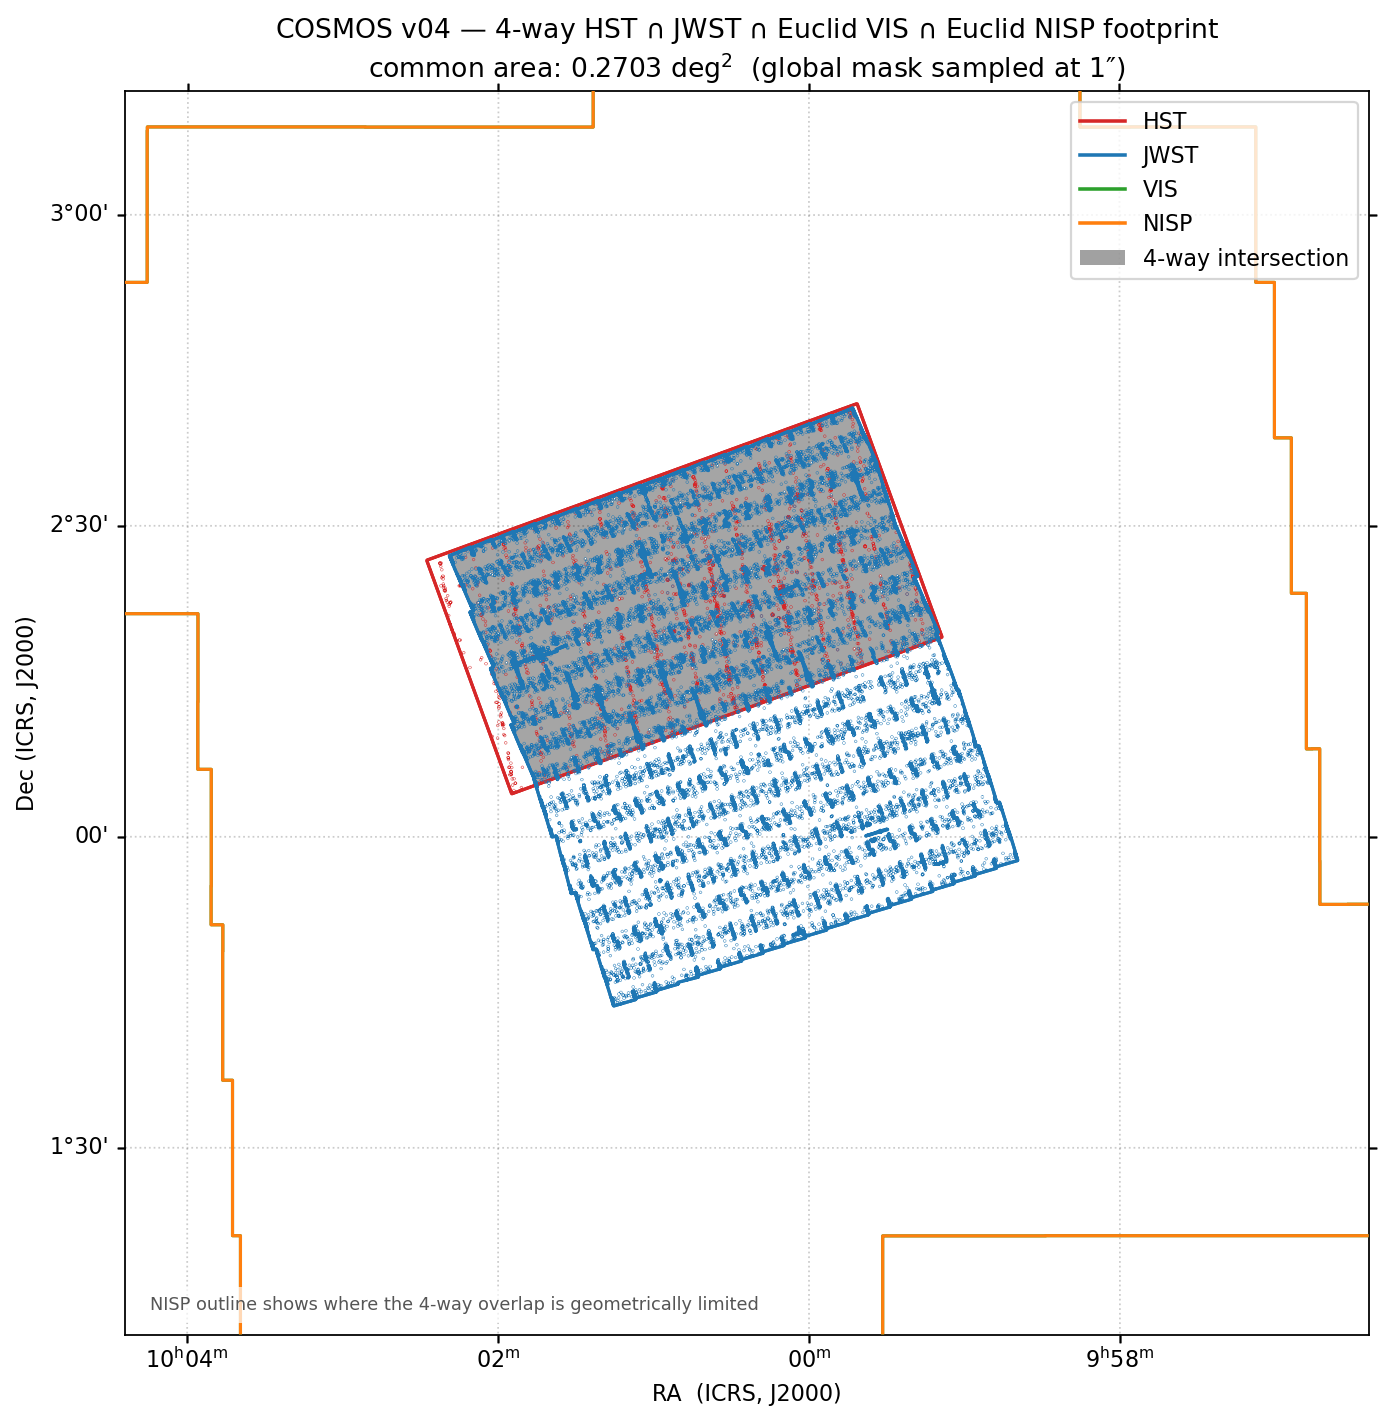
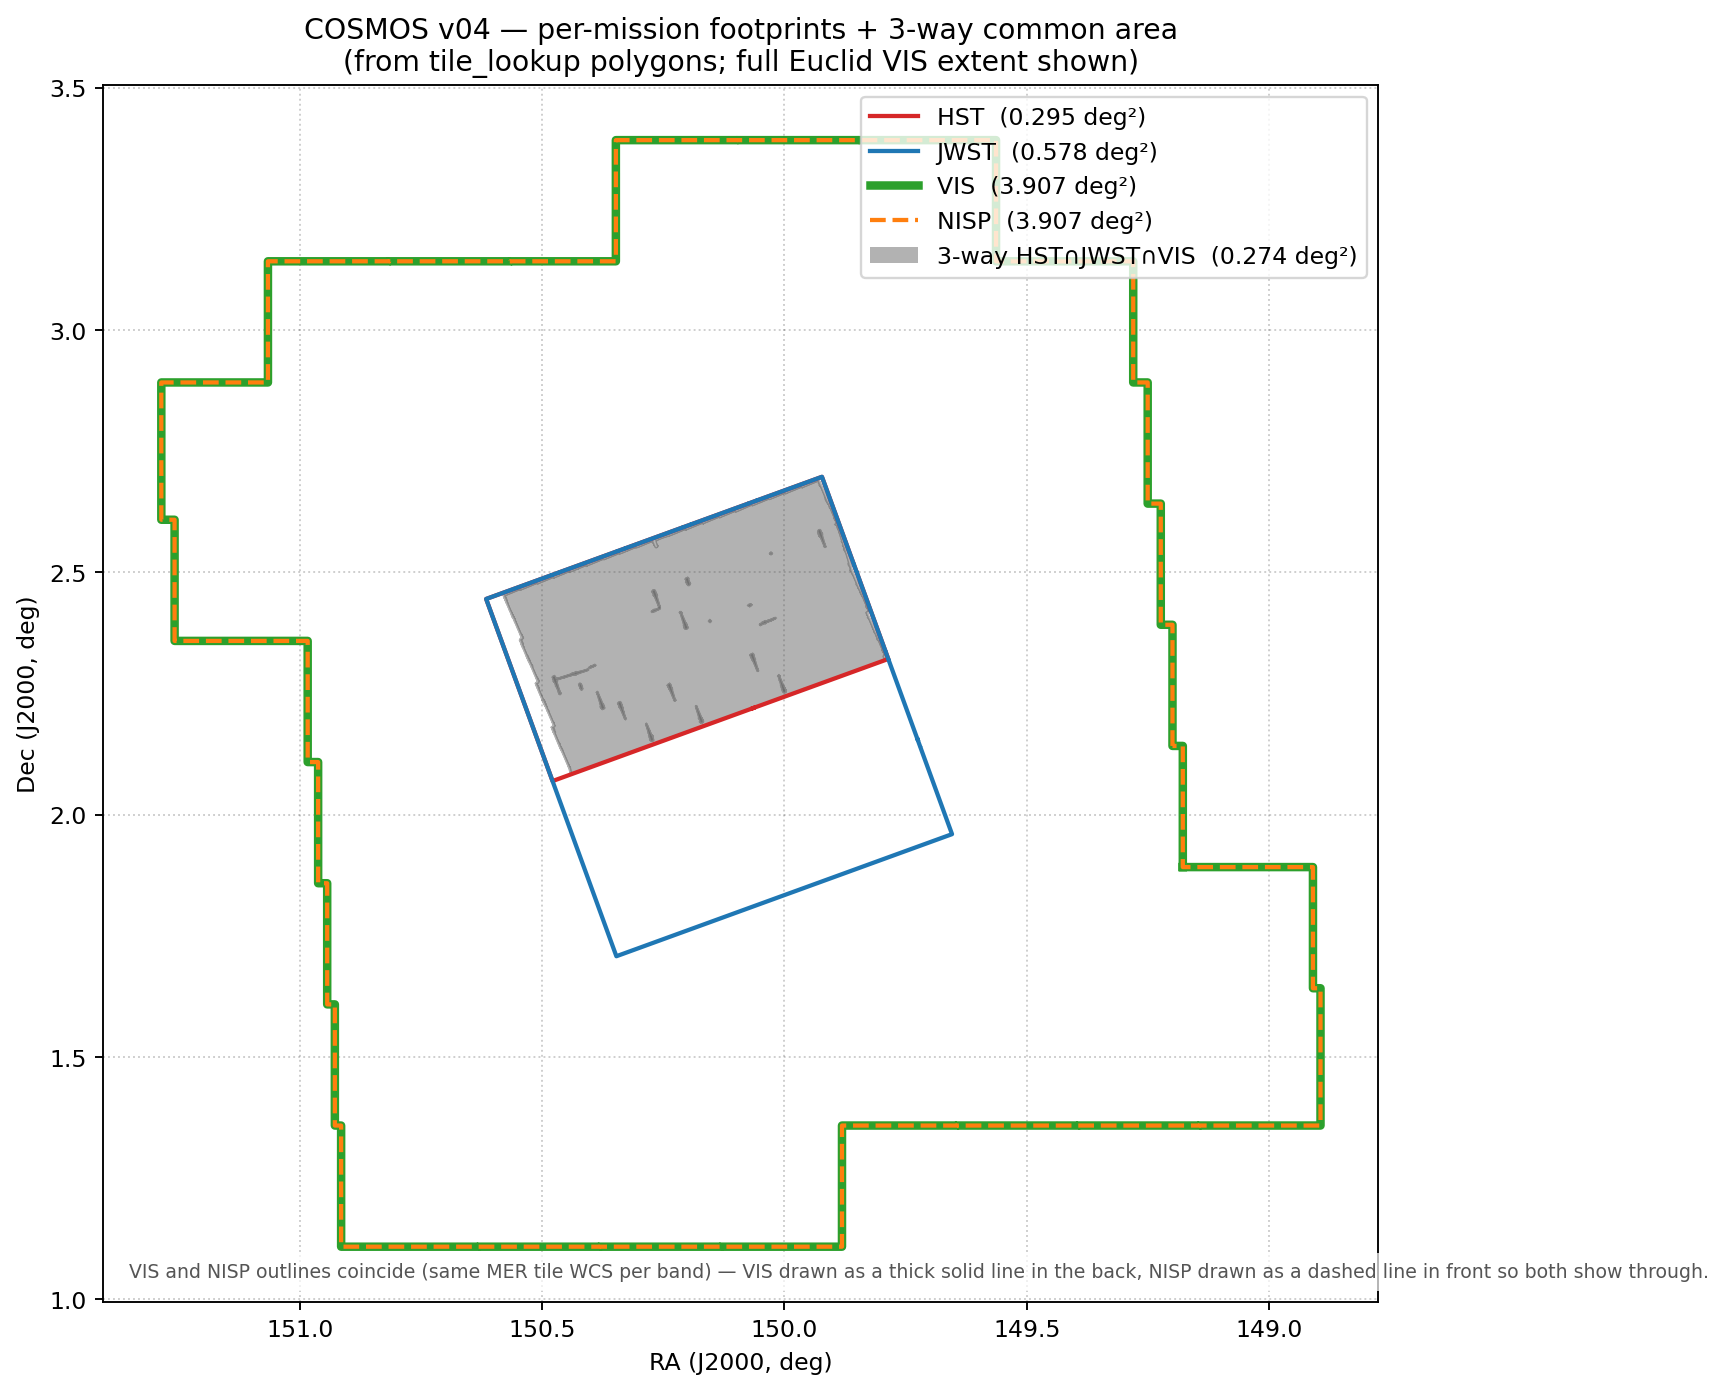
v04 Step 1 plot: rewrite 11_ to use tile_lookup polygons (no FITS reopen)
Replace the reprojection-based footprint plot (which redid 330
per-tile mask reprojections every run, ~50 min wall) with a Shapely
polygon-based approach that loads the 4-corner sky polygons from
tile_lookup.parquet and builds per-mission union/intersection
polygons in seconds (no FITS reads at all).

  per_mission_union(df, mission, filter)              -> Polygon
  mission_intersection_across_filters(df, mission, bands) -> Polygon

The 3-way common area itself is loaded from the persisted
common_area_3way.wkt; everything is sky-coords from start to end.

Drawing tweaks:
  - VIS drawn first (solid green, lw 3.6) so it sits in the back
  - NISP drawn last (dashed orange, lw 1.8) so VIS shows through
    the gaps in the dashes
  - Plot extent expands to the bbox of all four mission polygons
    so Euclid's full 3.9 deg^2 footprint is visible (the previous
    plot was clipped to the 2 deg x 2 deg global mask grid).

PNG: htmls/v04/step1/common_area_footprint.png (178 KB).
Script wall: < 1 sec.

diff --git a/programs_star/v04/11_step1_plot_footprint.py b/programs_star/v04/11_step1_plot_footprint.py
@@ -1,130 +1,185 @@
 #!/usr/bin/env python
 """
-11_step1_plot_footprint.py — RA/Dec map of the 4-way footprint.
+11_step1_plot_footprint.py — RA/Dec map of the v04 footprint.
 
-Reads the per-mission coverage masks reprojected onto the global 1"
-COSMOS grid (built by Step 1) and shows the 4-way HST ∩ JWST ∩ VIS ∩
-NISP common-area footprint, overlaid with per-mission outlines so it
-is visible which mission limits each edge of the common region.
+Uses the tile lookup table (RA/Dec polygon corners stored per tile) and
+the persisted 3-way common-area WKT — NO FITS REOPEN, NO REPROJECTION.
+
+Per-mission footprint = union of all per-tile 4-corner sky polygons:
+    HST         = union over the 10 HST F814W tiles
+    JWST        = INTERSECTION across F115/F150/F277/F444W (each filter
+                  is the union of its 20 tile polygons first)
+    Euclid VIS  = union over the 60 VIS MER tiles
+    Euclid NISP = INTERSECTION across NIR-Y/J/H (each band is the
+                  union of its 60 tile polygons first)
+
+The 3-way common area itself is loaded from
+    csvfiles_star/v04/common_area_3way.wkt
+and shown as the filled grey region.
 
 Output: htmls/v04/step1/common_area_footprint.png
+
+Runs in seconds (vs the original ~30-50 min reprojection version).
 """
 from __future__ import annotations
 from pathlib import Path
 
 import numpy as np
+import pandas as pd
 import matplotlib.pyplot as plt
-from astropy.io import fits
-from astropy.wcs import WCS
-from reproject import reproject_interp
+from shapely import wkt as shp_wkt
+from shapely.geometry import Polygon, MultiPolygon
+from shapely.ops import unary_union
 
-V04   = Path('/Users/suzuki/github/projects_cosmos/csvfiles_star/v04')
-COV   = V04 / 'coverage'
-GLOBAL_MASK = V04 / 'common_area_4way_1arcsec.fits.gz'
+V04           = Path('/Users/suzuki/github/projects_cosmos/csvfiles_star/v04')
+LOOKUP        = V04 / 'tile_lookup.parquet'
+THREE_WAY_WKT = V04 / 'common_area_3way.wkt'
+
 OUT_DIR = Path('/Users/suzuki/github/projects_cosmos/htmls/v04/step1')
 OUT_DIR.mkdir(parents=True, exist_ok=True)
 OUT_PNG = OUT_DIR / 'common_area_footprint.png'
 
+COLOURS = {'HST':  '#d62728',   # red
+           'JWST': '#1f77b4',   # blue
+           'VIS':  '#2ca02c',   # green
+           'NISP': '#ff7f0e'}   # orange
 
-def load_global_mask():
-    """Load the 4-way intersection mask + its WCS."""
-    with fits.open(GLOBAL_MASK) as h:
-        mask = np.asarray(h[0].data, dtype=bool)
-        wcs  = WCS(h[0].header)
-    return mask, wcs
+# Drawing: VIS in the back as a thick solid line; NISP in front as a
+# dashed line on top, so VIS green shows through the gaps in the dashes
+# and both Euclid outlines are visible simultaneously.
+DRAW_ORDER  = ['HST', 'JWST', 'VIS', 'NISP']
+WIDTHS      = {'HST': 1.8, 'JWST': 1.8, 'VIS': 3.6, 'NISP': 1.8}
+ALPHAS      = {'HST': 1.0, 'JWST': 1.0, 'VIS': 1.0, 'NISP': 1.0}
+LINESTYLES  = {'HST': '-',  'JWST': '-',  'VIS': '-',  'NISP': '--'}
 
 
-def per_mission_union(prefix: str, wcs_target, shape_target) -> np.ndarray:
-    """OR together every tile mask whose filename starts with `prefix`
-    after reprojecting onto the target WCS."""
-    out = np.zeros(shape_target, dtype=bool)
-    for f in sorted(COV.glob(f'{prefix}*.fits.gz')):
-        with fits.open(f, memmap=True) as h:
-            m = np.asarray(h[0].data, dtype=np.float32)
-            w = WCS(h[0].header)
-        rp, _ = reproject_interp((m, w), wcs_target,
-                                 shape_out=shape_target,
-                                 order='nearest-neighbor')
-        out |= (np.nan_to_num(rp, nan=0) > 0.5)
+def _row_polygon(row) -> Polygon:
+    """Build a Shapely polygon from a tile_lookup row's 4 corners (RA, Dec)."""
+    ra  = np.asarray(row['corners_ra'])
+    dec = np.asarray(row['corners_dec'])
+    coords = list(zip(ra, dec))
+    coords.append(coords[0])  # close the ring
+    poly = Polygon(coords)
+    if not poly.is_valid:
+        poly = poly.buffer(0)
+    return poly
+
+
+def mission_union(df: pd.DataFrame, mission: str, filt: str):
+    """Union of all tile polygons for one (mission, filter)."""
+    sub = df[(df['mission'] == mission) & (df['filter'] == filt)]
+    polys = [_row_polygon(r) for _, r in sub.iterrows()]
+    return unary_union(polys) if polys else Polygon()
+
+
+def mission_intersection_across_filters(df: pd.DataFrame,
+                                         mission: str,
+                                         filters: list[str]):
+    """For each filter, take the union over its tiles; then INTERSECT
+    those per-filter unions to get the cross-band common footprint."""
+    per_filter = [mission_union(df, mission, f) for f in filters]
+    out = per_filter[0]
+    for p in per_filter[1:]:
+        out = out.intersection(p)
     return out
 
 
-def jwst_intersection(wcs_target, shape_target):
-    """All 4 JWST bands AND'd together."""
-    out = None
-    for flt in ('F115W', 'F150W', 'F277W', 'F444W'):
-        m = per_mission_union(f'JWST_{flt}_', wcs_target, shape_target)
-        out = m if out is None else (out & m)
-    return out
-
-
-def nisp_intersection(wcs_target, shape_target):
-    """All 3 NISP bands AND'd together."""
-    out = None
-    for flt in ('NIR-Y', 'NIR-J', 'NIR-H'):
-        m = per_mission_union(f'Euclid_{flt}_', wcs_target, shape_target)
-        out = m if out is None else (out & m)
-    return out
+def draw_geom(ax, geom, **kw):
+    """matplotlib helper: draw a (Multi)Polygon outline."""
+    if geom.is_empty:
+        return
+    if geom.geom_type == 'Polygon':
+        polys = [geom]
+    else:
+        polys = list(geom.geoms)
+    for poly in polys:
+        xs, ys = zip(*poly.exterior.coords)
+        ax.plot(xs, ys, **kw)
+        for hole in poly.interiors:
+            hxs, hys = zip(*hole.coords)
+            ax.plot(hxs, hys, **kw)
 
 
 def main():
-    print('Loading global 4-way mask ...')
-    four_way, wcs = load_global_mask()
-    shape = four_way.shape
-    print(f'  grid {shape[1]}x{shape[0]}  4-way pixels: {four_way.sum():,}')
+    print('Reading tile_lookup.parquet ...')
+    df = pd.read_parquet(LOOKUP)
+    print(f'  {len(df)} tile rows')
 
-    print('Building per-mission union/intersection masks for outline overlay ...')
-    hst  = per_mission_union('HST_F814W_',   wcs, shape)
-    jwst = jwst_intersection(wcs, shape)
-    vis  = per_mission_union('Euclid_VIS_',  wcs, shape)
-    nisp = nisp_intersection(wcs, shape)
-    print(f'  HST   {hst.sum()/1e6:6.2f} Mpx')
-    print(f'  JWST  {jwst.sum()/1e6:6.2f} Mpx')
-    print(f'  VIS   {vis.sum()/1e6:6.2f} Mpx')
-    print(f'  NISP  {nisp.sum()/1e6:6.2f} Mpx')
-    print(f'  4-way {four_way.sum()/1e6:6.2f} Mpx -> {four_way.sum()/3600**2:.4f} deg^2')
+    print('Building per-mission footprints via Shapely union/intersection ...')
+    footprints = {
+        'HST':  mission_union(df, 'HST', 'F814W'),
+        'JWST': mission_intersection_across_filters(
+                    df, 'JWST', ['F115W', 'F150W', 'F277W', 'F444W']),
+        'VIS':  mission_union(df, 'Euclid', 'VIS'),
+        'NISP': mission_intersection_across_filters(
+                    df, 'Euclid', ['NIR-Y', 'NIR-J', 'NIR-H']),
+    }
+    for name, geom in footprints.items():
+        print(f'  {name:5s} polygon area = {geom.area:.4f} deg², bounds={geom.bounds}')
+
+    print(f'Loading 3-way common-area polygon from {THREE_WAY_WKT.name} ...')
+    three_way = shp_wkt.loads(THREE_WAY_WKT.read_text())
+    print(f'  3-way area = {three_way.area:.4f} deg²')
 
     # ── Plot ───────────────────────────────────────────────────────────
-    fig = plt.figure(figsize=(9, 9))
-    ax  = fig.add_subplot(111, projection=wcs)
+    # Axis extent: union bounding box of all footprints, with a 5% margin.
+    all_geoms = list(footprints.values()) + [three_way]
+    union_box = unary_union(all_geoms).bounds   # (minx, miny, maxx, maxy)
+    margin_x = 0.05 * (union_box[2] - union_box[0])
+    margin_y = 0.05 * (union_box[3] - union_box[1])
 
-    # Filled fan-of-grey: 4-way region in solid colour.
-    ax.imshow(four_way, origin='lower', cmap='Greys', alpha=0.55,
-              interpolation='nearest', vmin=0, vmax=1.4)
+    fig, ax = plt.subplots(figsize=(10, 9))
 
-    # Per-mission outlines (drawn in pixel coords; WCSAxes handles RA/Dec ticks)
-    colours = {'HST':  '#d62728',  # red
-               'JWST': '#1f77b4',  # blue
-               'VIS':  '#2ca02c',  # green
-               'NISP': '#ff7f0e'}  # orange
-    for name, m in (('HST', hst), ('JWST', jwst), ('VIS', vis), ('NISP', nisp)):
-        ax.contour(m, levels=[0.5], colors=colours[name],
-                   linewidths=1.4, linestyles='-')
+    # 3-way: filled grey patches
+    if three_way.geom_type == 'Polygon':
+        threes = [three_way]
+    else:
+        threes = list(three_way.geoms)
+    for p in threes:
+        xs, ys = zip(*p.exterior.coords)
+        ax.fill(xs, ys, color='#555', alpha=0.45, zorder=2)
 
-    # Legend (proxy artists since contour doesn't take label well)
-    handles = [plt.Line2D([], [], color=c, lw=1.6, label=k)
-               for k, c in colours.items()]
-    handles.append(plt.Rectangle((0, 0), 1, 1, fc='#555', ec='none', alpha=0.55,
-                                 label='4-way intersection'))
-    ax.legend(handles=handles, loc='upper right', frameon=True, fontsize=10)
+    # Per-mission outlines in the documented order (NISP drawn last on top)
+    z = {'HST': 3, 'JWST': 3, 'VIS': 4, 'NISP': 5}
+    for name in DRAW_ORDER:
+        draw_geom(ax, footprints[name],
+                  color=COLOURS[name], lw=WIDTHS[name], alpha=ALPHAS[name],
+                  linestyle=LINESTYLES[name], zorder=z[name])
 
-    ax.set_xlabel('RA  (ICRS, J2000)')
-    ax.set_ylabel('Dec (ICRS, J2000)')
-    area_deg2 = four_way.sum() / 3600**2
-    ax.set_title(f'COSMOS v04 — 4-way HST $\\cap$ JWST $\\cap$ Euclid VIS $\\cap$ '
-                 f'Euclid NISP footprint\n'
-                 f'common area: {area_deg2:.4f} deg$^2$  '
-                 f'(global mask sampled at 1″)')
+    # Axes / labels
+    ax.set_xlim(union_box[2] + margin_x, union_box[0] - margin_x)   # RA decreases L->R
+    ax.set_ylim(union_box[1] - margin_y, union_box[3] + margin_y)
+    ax.set_aspect('equal', adjustable='box')
+    ax.set_xlabel('RA (J2000, deg)')
+    ax.set_ylabel('Dec (J2000, deg)')
     ax.grid(color='k', alpha=0.2, ls=':')
 
-    # Annotate where the bottleneck is (NISP-Y has tiny coverage)
+    # Legend (proxy artists so all four lines + the filled 3-way appear)
+    handles = []
+    for name in ('HST', 'JWST', 'VIS', 'NISP'):
+        handles.append(plt.Line2D([], [], color=COLOURS[name],
+                                    lw=WIDTHS[name], alpha=ALPHAS[name],
+                                    linestyle=LINESTYLES[name],
+                                    label=f'{name}  ({footprints[name].area:.3f} deg²)'))
+    handles.append(plt.Rectangle((0, 0), 1, 1, fc='#555', ec='none', alpha=0.45,
+                                  label=f'3-way HST∩JWST∩VIS  ({three_way.area:.3f} deg²)'))
+    ax.legend(handles=handles, loc='upper right', frameon=True, fontsize=10)
+
+    ax.set_title(
+        'COSMOS v04 — per-mission footprints + 3-way common area\n'
+        f'(from tile_lookup polygons; full Euclid VIS extent shown)',
+        fontsize=12)
+
+    # Annotation on the discovery: NISP and VIS share the same MER tiles
     ax.text(0.02, 0.02,
-            'NISP outline shows where the 4-way overlap is geometrically limited',
+            'VIS and NISP outlines coincide (same MER tile WCS per band) — '
+            'VIS drawn as a thick solid line in the back, NISP drawn as a '
+            'dashed line in front so both show through.',
             transform=ax.transAxes, fontsize=8, color='#555',
             bbox=dict(facecolor='white', alpha=0.7, edgecolor='none'))
 
     fig.tight_layout()
-    fig.savefig(OUT_PNG, dpi=160, bbox_inches='tight')
+    fig.savefig(OUT_PNG, dpi=170, bbox_inches='tight')
     print(f'\n[save] {OUT_PNG}  ({OUT_PNG.stat().st_size/1024:.0f} KB)')
 
 
